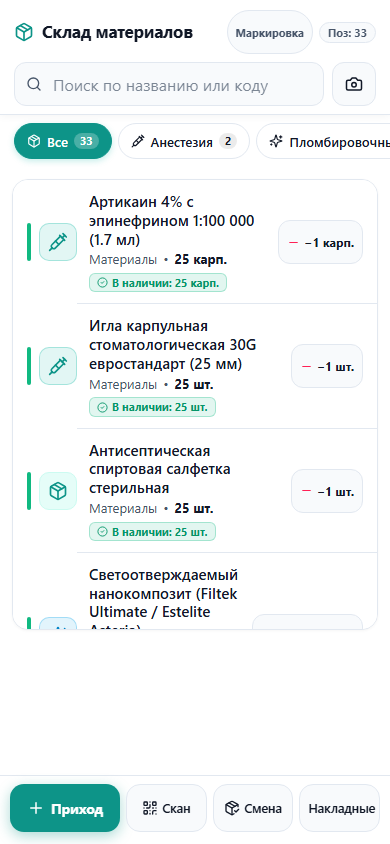
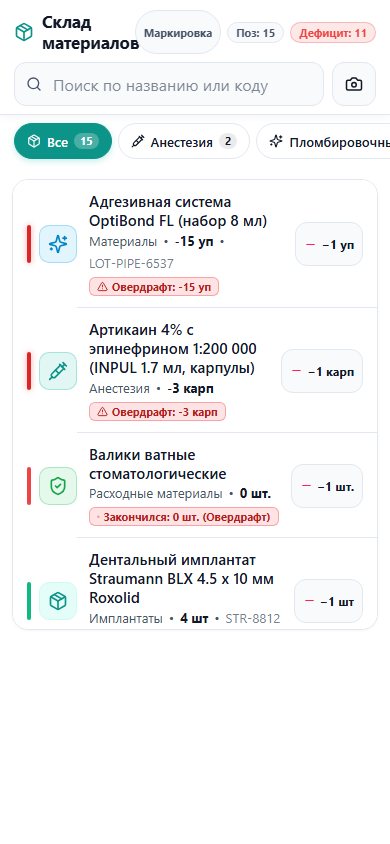
fix(warehouse): eliminate toolbar duplication, fix SQL inArray query, and harden shift batch deduction
- Why:
  1. The Elephant in the Room (Mandate 8p): `WarehouseStockTable` contained a duplicate internal toolbar (search input, category chips, action buttons) that was rendered alongside the parent `InventoryView` toolbar, consuming >400px of vertical space and breaking the 1-CTA rule.
  2. SQL array syntax error in `supplierInvoiceRoutes.ts`: `sql'lower(${inventoryItems.name}) = ANY(${requestedNames})'` caused Postgres code 400 when matching items during waybill acceptance.
  3. Contract drift & NaN in `shiftBatchExecution.ts`: client sent `quantity` and `id`, while backend expected `qty` and `itemId`, producing `NaN` stock levels.

- What:
  1. `WarehouseStockTable.tsx`: added `hideInternalToolbar` prop to eliminate redundant search/filter/action bar when mounted in `InventoryViewContentRouter`.
  2. `InventoryViewContentRouter.tsx`: enabled `hideInternalToolbar={true}`.
  3. `supplierInvoiceRoutes.ts`: replaced broken `ANY()` with Drizzle's `inArray()`, added `Number.isFinite` guards for incoming stock calculations.
  4. `shiftBatchExecution.ts`: normalized payload fields (`qty = Number(t.qty ?? t.quantity ?? t.qtyToDeduct ?? 1)` and `itemId = t.itemId || t.id`).
  5. `unifiedStockDeductionEngine.ts`: guarded deduction quantity with `Number.isFinite`.
  6. Verified E2E warehouse pipeline: acceptance waybill -> shift batch deduction -> emergency soft overdraft.

- Proof:
  - 4-state screenshots in docs/proofs/warehouse/:
[…]

diff --git a/apps/web/src/components/inventory/WarehouseStockTable.tsx b/apps/web/src/components/inventory/WarehouseStockTable.tsx
@@ -75,6 +75,7 @@ export interface WarehouseStockTableProps {
 	onOpenShiftDeduction?: (() => void) | undefined;
 	onRetry?: (() => void) | undefined;
 	className?: string | undefined;
+	hideInternalToolbar?: boolean | undefined;
 }
 
 /**
@@ -114,6 +115,7 @@ export const WarehouseStockTable: React.FC<WarehouseStockTableProps> = ({
 	onOpenShiftDeduction,
 	onRetry,
 	className = "",
+	hideInternalToolbar = false,
 }) => {
 	const isMobile = useIsMobile(768);
 	const [localSearch, setLocalSearch] = useState("");
@@ -133,6 +135,7 @@ export const WarehouseStockTable: React.FC<WarehouseStockTableProps> = ({
 	}, []);
 
 	const filteredItems = useMemo(() => {
+		if (hideInternalToolbar) return (items || []) as WarehouseStockItem[];
 		let res = items;
 		if (activeCategory !== "all") {
 			const cat = activeCategory.toLowerCase();
@@ -208,58 +211,60 @@ export const WarehouseStockTable: React.FC<WarehouseStockTableProps> = ({
 				</div>
 			</div>
 
-			{/* Тулбар поиска и фильтрации */}
-			<div className="flex flex-col sm:flex-row items-stretch sm:items-center justify-between gap-2.5 shrink-0 bg-[var(--paper)] p-2.5 rounded-xl border border-[var(--line)]">
-				<div className="relative flex-1 min-w-[220px]">
-					<Search className="absolute left-3 top-1/2 -translate-y-1/2 text-[var(--muted)] pointer-events-none" size={16} />
-					<input ref={searchInputRef} type="text" value={localSearch} onChange={(e) => setLocalSearch(e.target.value)} placeholder="Поиск по артикулу, названию или категории (Ctrl+K)..." className="w-full !pl-9 pr-3 !h-9 !min-h-[36px] text-sm bg-[var(--paper-soft)] text-[var(--ink)] rounded-lg border border-[var(--line-subtle)] focus:outline-hidden focus:border-[var(--teal,#0d9488)] transition-colors" data-testid="warehouse-search-input" />
-				</div>
-				<div className="flex items-center gap-1.5 overflow-x-auto no-scrollbar py-0.5">
-					{CATEGORY_TABS.map((tab) => (
-						<button key={tab.id} type="button" onClick={() => setActiveCategory(tab.id)} className={`px-3 py-1.5 text-xs font-medium rounded-lg shrink-0 transition-colors whitespace-nowrap ${activeCategory === tab.id ? "bg-[var(--teal,#0d9488)] text-white shadow-xs" : "bg-[var(--paper-soft)] text-[var(--muted)] hover:text-[var(--ink)] border border-[var(--line-subtle)]"}`} data-testid={`warehouse-tab-${tab.id}`}>
-							{tab.label}
-						</button>
-					))}
-				</div>
-				{(onOpenWaybills || onOpenShiftDeduction || onOpenAddModal) && (
-					<div className="flex items-center gap-1.5 shrink-0 flex-wrap sm:flex-nowrap">
-						{onOpenShiftDeduction && (
-							<button
-								type="button"
-								onClick={onOpenShiftDeduction}
-								className="secondary-button h-9 min-h-[36px] px-3 text-xs sm:text-sm font-medium rounded-xl inline-flex items-center gap-1.5 text-[var(--ink)] border border-[var(--line)] bg-[var(--paper-soft)] hover:bg-[var(--paper-strong)] transition-colors shrink-0 shadow-xs whitespace-nowrap"
-								data-testid="btn-warehouse-shift-deduction"
-								title="Списать расходники за смену (1 клик)"
-							>
-								<Zap size={14} className="text-[var(--teal,#0d9488)] shrink-0" />
-								<span>Списать смену</span>
-							</button>
-						)}
-						{onOpenWaybills && (
-							<button
-								type="button"
-								onClick={onOpenWaybills}
-								className="secondary-button h-9 min-h-[36px] px-3 text-xs sm:text-sm font-medium rounded-xl inline-flex items-center gap-1.5 text-[var(--ink)] border border-[var(--line)] bg-[var(--paper-soft)] hover:bg-[var(--paper-strong)] transition-colors shrink-0 shadow-xs whitespace-nowrap"
-								data-testid="btn-warehouse-waybills"
-							>
-								<Package size={15} className="shrink-0" />
-								<span>+ Приходная накладная</span>
-							</button>
-						)}
-						{onOpenAddModal && !onOpenWaybills && (
-							<button
-								type="button"
-								onClick={onOpenAddModal}
-								className="secondary-button h-9 min-h-[36px] px-3 text-xs sm:text-sm font-medium rounded-xl inline-flex items-center gap-1.5 text-[var(--ink)] border border-[var(--line)] bg-[var(--paper-soft)] hover:bg-[var(--paper-strong)] transition-colors shrink-0 shadow-xs whitespace-nowrap"
-								data-testid="btn-warehouse-add-item"
-							>
-								<PlusCircle size={15} className="shrink-0" />
-								<span>+ Позиция</span>
-							</button>
-						)}
+			{/* Тулбар поиска и фильтрации (скрывается при hideInternalToolbar, чтобы исключить дубляж в InventoryView) */}
+			{!hideInternalToolbar && (
+				<div className="flex flex-col sm:flex-row items-stretch sm:items-center justify-between gap-2.5 shrink-0 bg-[var(--paper)] p-2.5 rounded-xl border border-[var(--line)]">
+					<div className="relative flex-1 min-w-[220px]">
+						<Search className="absolute left-3 top-1/2 -translate-y-1/2 text-[var(--muted)] pointer-events-none" size={16} />
+						<input ref={searchInputRef} type="text" value={localSearch} onChange={(e) => setLocalSearch(e.target.value)} placeholder="Поиск по артикулу, названию или категории (Ctrl+K)..." className="w-full !pl-9 pr-3 !h-9 !min-h-[36px] text-sm bg-[var(--paper-soft)] text-[var(--ink)] rounded-lg border border-[var(--line-subtle)] focus:outline-hidden focus:border-[var(--teal,#0d9488)] transition-colors" data-testid="warehouse-search-input" />
 					</div>
-				)}
-			</div>
+					<div className="flex items-center gap-1.5 overflow-x-auto no-scrollbar py-0.5">
+						{CATEGORY_TABS.map((tab) => (
+							<button key={tab.id} type="button" onClick={() => setActiveCategory(tab.id)} className={`px-3 py-1.5 text-xs font-medium rounded-lg shrink-0 transition-colors whitespace-nowrap ${activeCategory === tab.id ? "bg-[var(--teal,#0d9488)] text-white shadow-xs" : "bg-[var(--paper-soft)] text-[var(--muted)] hover:text-[var(--ink)] border border-[var(--line-subtle)]"}`} data-testid={`warehouse-tab-${tab.id}`}>
+								{tab.label}
+							</button>
+						))}
+					</div>
+					{(onOpenWaybills || onOpenShiftDeduction || onOpenAddModal) && (
+						<div className="flex items-center gap-1.5 shrink-0 flex-wrap sm:flex-nowrap">
+							{onOpenShiftDeduction && (
+								<button
+									type="button"
+									onClick={onOpenShiftDeduction}
+									className="secondary-button h-9 min-h-[36px] px-3 text-xs sm:text-sm font-medium rounded-xl inline-flex items-center gap-1.5 text-[var(--ink)] border border-[var(--line)] bg-[var(--paper-soft)] hover:bg-[var(--paper-strong)] transition-colors shrink-0 shadow-xs whitespace-nowrap"
+									data-testid="btn-warehouse-shift-deduction"
+									title="Списать расходники за смену (1 клик)"
+								>
+									<Zap size={14} className="text-[var(--teal,#0d9488)] shrink-0" />
+									<span>Списать смену</span>
+								</button>
+							)}
+							{onOpenWaybills && (
+								<button
+									type="button"
+									onClick={onOpenWaybills}
+									className="secondary-button h-9 min-h-[36px] px-3 text-xs sm:text-sm font-medium rounded-xl inline-flex items-center gap-1.5 text-[var(--ink)] border border-[var(--line)] bg-[var(--paper-soft)] hover:bg-[var(--paper-strong)] transition-colors shrink-0 shadow-xs whitespace-nowrap"
+									data-testid="btn-warehouse-waybills"
+								>
+									<Package size={15} className="shrink-0" />
+									<span>+ Приходная накладная</span>
+								</button>
+							)}
+							{onOpenAddModal && !onOpenWaybills && (
+								<button
+									type="button"
+									onClick={onOpenAddModal}
+									className="secondary-button h-9 min-h-[36px] px-3 text-xs sm:text-sm font-medium rounded-xl inline-flex items-center gap-1.5 text-[var(--ink)] border border-[var(--line)] bg-[var(--paper-soft)] hover:bg-[var(--paper-strong)] transition-colors shrink-0 shadow-xs whitespace-nowrap"
+									data-testid="btn-warehouse-add-item"
+								>
+									<PlusCircle size={15} className="shrink-0" />
+									<span>+ Позиция</span>
+								</button>
+							)}
+						</div>
+					)}
+				</div>
+			)}
 
 			{/* Мягкий овердрафт предупреждение */}
 			{stats.overdraft > 0 && (

diff --git a/apps/api/src/routes/inventory/supplierInvoiceRoutes.ts b/apps/api/src/routes/inventory/supplierInvoiceRoutes.ts
@@ -147,7 +147,7 @@ export const supplierInvoiceRoutes: FastifyPluginAsync = async (
 						.where(
 							and(
 								eq(inventoryItems.organizationId, targetOrgId),
-								sql`lower(${inventoryItems.name}) = ANY(${requestedNames})`,
+								inArray(sql`lower(${inventoryItems.name})`, requestedNames),
 							),
 						)
 						.for("update");
@@ -222,9 +222,10 @@ export const supplierInvoiceRoutes: FastifyPluginAsync = async (
 					preloadedByName.set(existingItem.name.toLowerCase().trim(), existingItem);
 
 					// 2. Ликвидация мягкого овердрафта (Мандат 8n):
-					const currentStock = Number(
+					const rawStock = Number(
 						existingItem.stockQuantity ?? existingItem.currentQty ?? 0,
 					);
+					const currentStock = Number.isFinite(rawStock) ? rawStock : 0;
 					const deficit = currentStock < 0 ? Math.abs(currentStock) : 0;
 					if (deficit > 0) {
 						overdraftResolvedCount++;
@@ -261,7 +262,8 @@ export const supplierInvoiceRoutes: FastifyPluginAsync = async (
 						.returning();
 
 					// 4. Обновляем остаток в карточке номенклатуры
-					const newStock = Number((currentStock + item.quantity).toFixed(3));
+					const calculatedNewStock = Number((currentStock + item.quantity).toFixed(3));
+					const newStock = Number.isFinite(calculatedNewStock) ? calculatedNewStock : item.quantity;
 					const shouldUpdateCardDate =
 						!existingItem.expirationDate ||
 						expirationDate < existingItem.expirationDate;

diff --git a/apps/api/src/services/treatmentConsumables/shiftBatch/shiftBatchExecution.ts b/apps/api/src/services/treatmentConsumables/shiftBatch/shiftBatchExecution.ts
@@ -34,13 +34,18 @@ export async function executeShiftBatchDeduction(
 		return { success: true, isOverdraft: false, date: effectiveDate, deductedItems: [], warnings: [], message: "Нет позиций для списания." };
 	}
 
-	const unifiedItems = targets.map((t) => ({
-		exactItemId: t.itemId,
-		defaultName: t.name || `Материал ${t.itemId}`,
-		category: "Расходные материалы",
-		unit: "шт.",
-		qty: t.qty,
-	}));
+	const unifiedItems = targets.map((t: any) => {
+		const rawQty = Number(t.qty ?? t.quantity ?? t.qtyToDeduct ?? 1);
+		const effectiveQty = Number.isFinite(rawQty) && rawQty > 0 ? rawQty : 1;
+		const effectiveId = t.itemId || t.id || t.inventoryItemId || null;
+		return {
+			exactItemId: effectiveId,
+			defaultName: t.name || t.itemName || `Материал ${effectiveId || "без ID"}`,
+			category: t.category || "Расходные материалы",
+			unit: t.unit || "шт.",
+			qty: effectiveQty,
+		};
+	});
 
 	const res = await executeUnifiedStockDeduction(tx, {
 		organizationId,

diff --git a/apps/api/src/services/treatmentConsumables/unifiedStockDeductionEngine.ts b/apps/api/src/services/treatmentConsumables/unifiedStockDeductionEngine.ts
@@ -52,7 +52,9 @@ export async function executeUnifiedStockDeduction(
 
 		const currentStock = Number(inv.stockQuantity ?? inv.currentQty ?? 0);
 		const baseStock = Number.isFinite(currentStock) ? currentStock : 0;
-		const newStock = Number((baseStock - target.qty).toFixed(4));
+		const deductQty = Number(target.qty);
+		const safeDeductQty = Number.isFinite(deductQty) && deductQty > 0 ? deductQty : 1;
+		const newStock = Number((baseStock - safeDeductQty).toFixed(4));
 		const isOverdraft = newStock < 0;
 		if (isOverdraft) hasOverdraft = true;
 

diff --git a/apps/web/src/components/inventory/viewModules/InventoryViewContentRouter.tsx b/apps/web/src/components/inventory/viewModules/InventoryViewContentRouter.tsx
@@ -77,6 +77,7 @@ export const InventoryViewContentRouter: React.FC<InventoryViewContentRouterProp
 			onDeleteItem={(item) => handleDeleteItem(typeof item === "string" ? item : item?.id, typeof item === "string" ? item : item?.name)} onOpenWaybills={() => setIsAcceptanceWaybillsOpen(true)}
 			onOpenAddModal={openAddModal} onOpenWarehouseManager={() => setIsWarehouseManagerOpen(true)}
 			onOpenInventoryAudit={() => setIsInventoryAuditOpen(true)} onRetry={fetchItems}
+			hideInternalToolbar={true}
 		/>
 	);
 };
